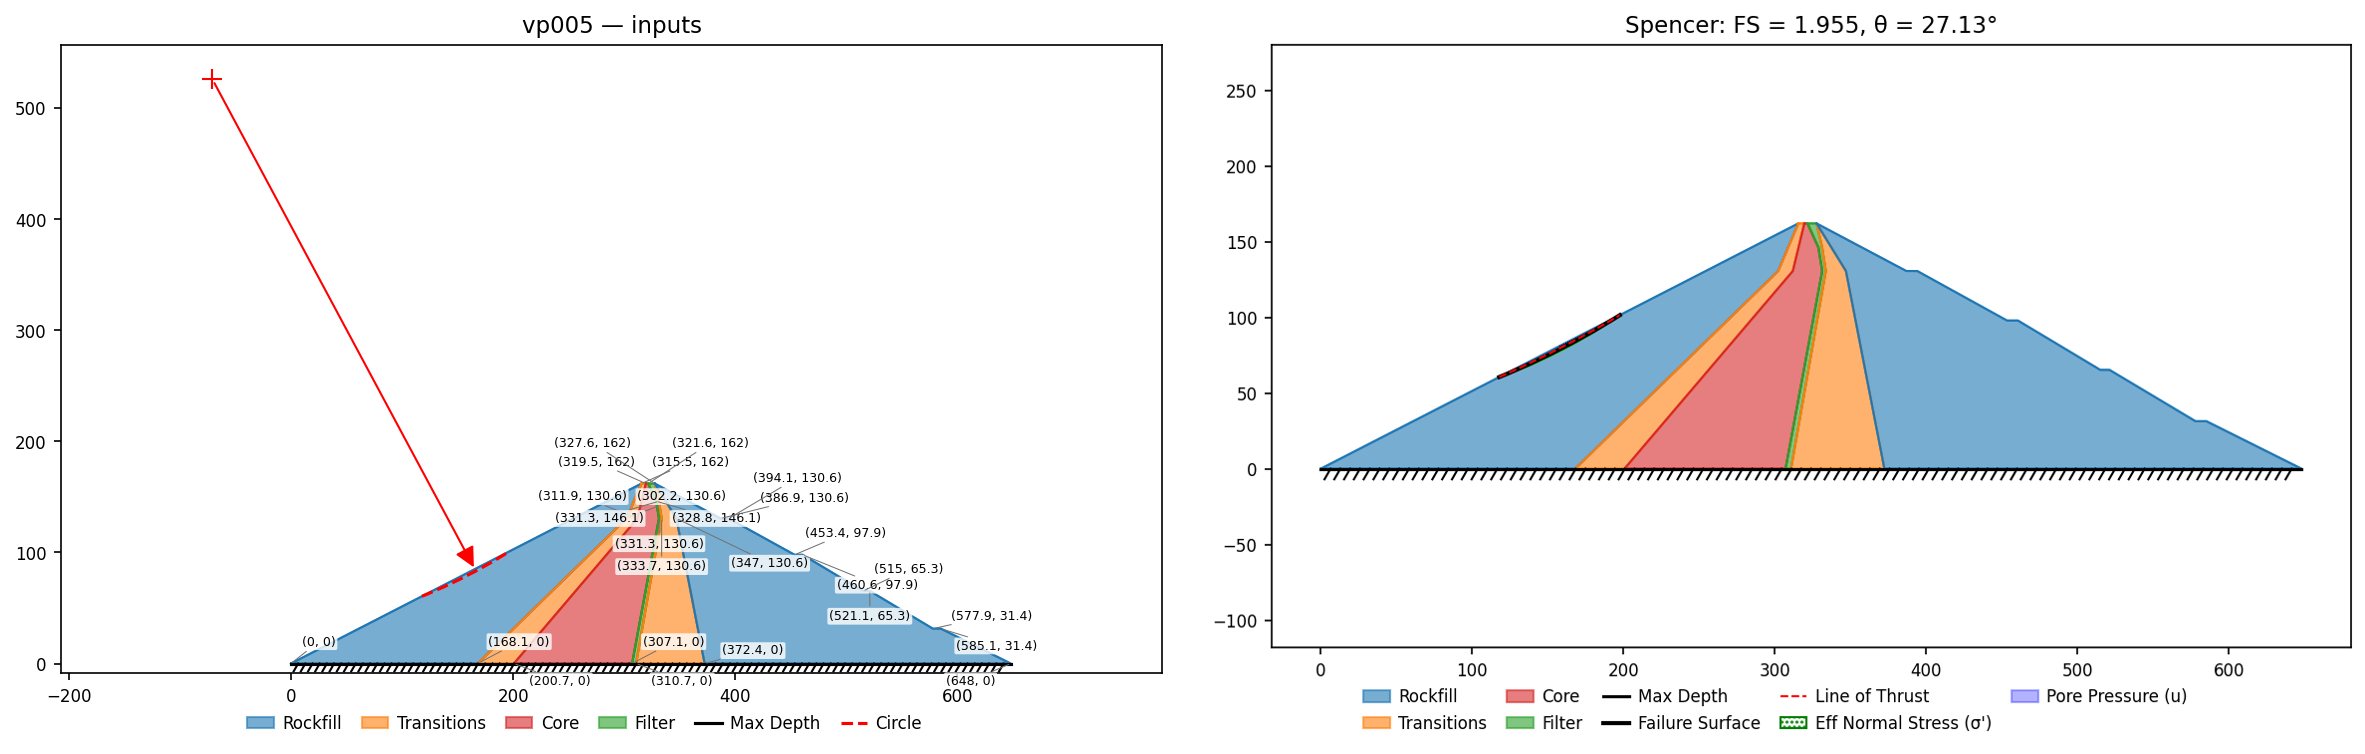
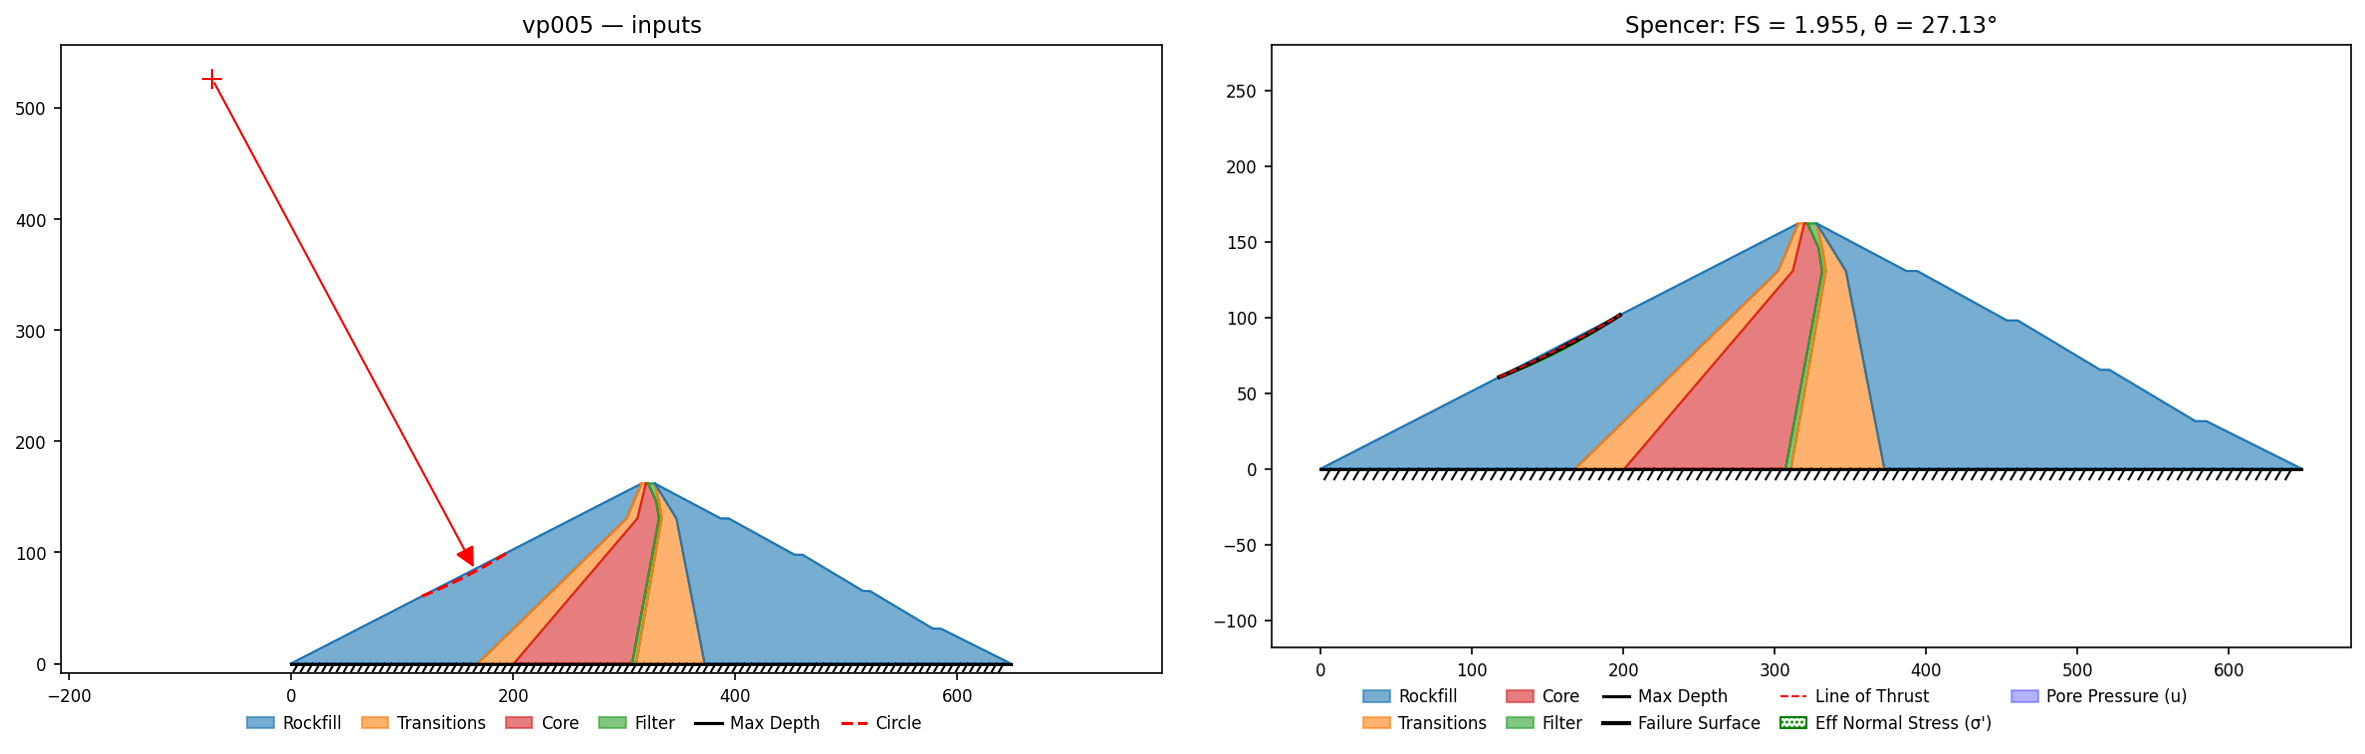
docs(verification): Talbingo figures skip coordinate labels (26 clustered vertices; Table 5.2 carries them)

Changed region(s): [[0.2161, 0.5796, 0.4321, 0.9151], [0.1852, 0.8236, 0.3395, 0.9151]]

diff --git a/benchmarks/rocscience/make_figures.py b/benchmarks/rocscience/make_figures.py
@@ -29,6 +29,11 @@ from xslope import solve
 from xslope.plot import plot_inputs, plot_solution
 
 SRC = os.path.join(os.path.dirname(__file__), '..', '..', 'docs', 'files', 'rocscience')
+
+# Talbingo (vp005/vp006) has 26 vertices, half of them within a few metres at
+# the crest - no readable label layout exists at panel size, so those two
+# figures skip the coordinate labels (the manual's Table 5.2 carries them).
+NO_COORD_LABELS = {'vp005', 'vp006'}
 OUT = os.path.join(os.path.dirname(__file__), '..', '..', 'docs', 'verification', 'images')
 
 # (file stem, surface kind, method) — kind: circle = the stored circle is the
@@ -124,7 +129,8 @@ def make_figure(stem, kind, method, panel_size=(8.0, 5.0), dpi=150):
         fig = plt.figure(figsize=panel_size)
         if which == 'inputs':
             plot_inputs(sd, fig=fig, mat_table=False, show_title=True,
-                        title=f'{stem} — inputs', label_coordinates=True,
+                        title=f'{stem} — inputs',
+                        label_coordinates=stem not in NO_COORD_LABELS,
                         coord_label_size=6)
         else:
             plot_solution(sd, df, fs, results, fig=fig, show_title=True)
